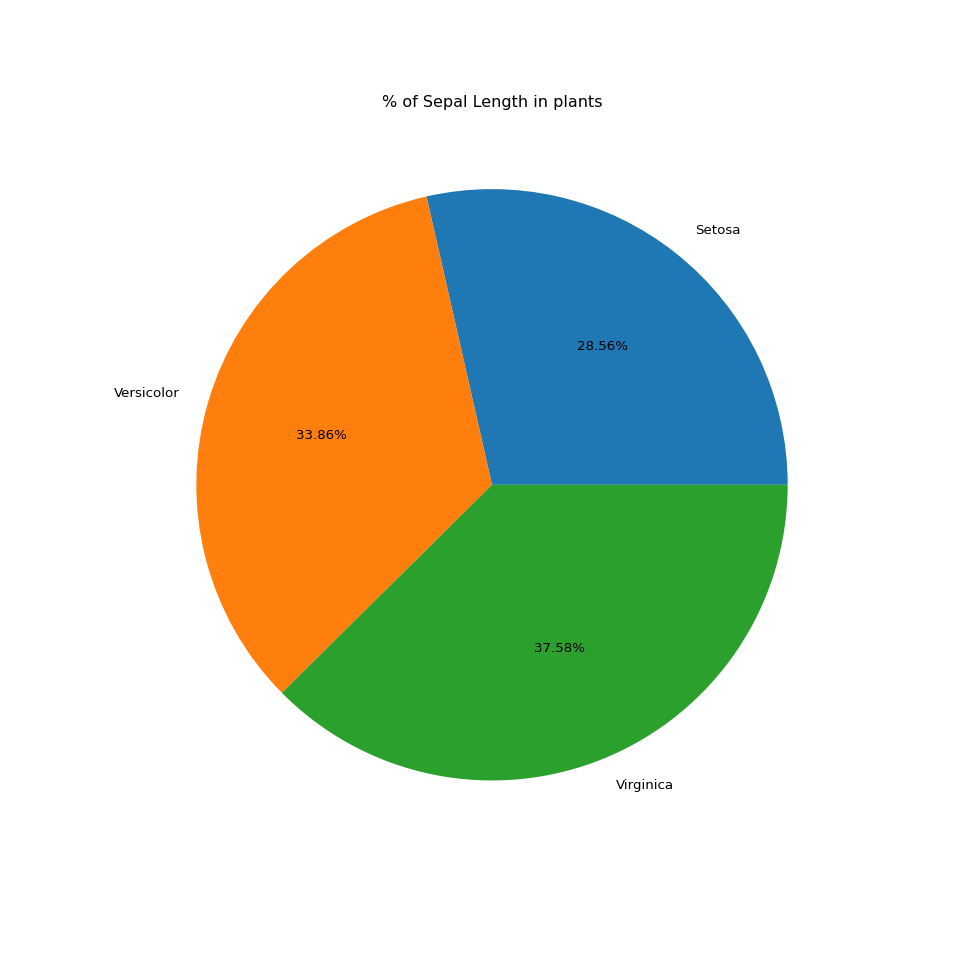
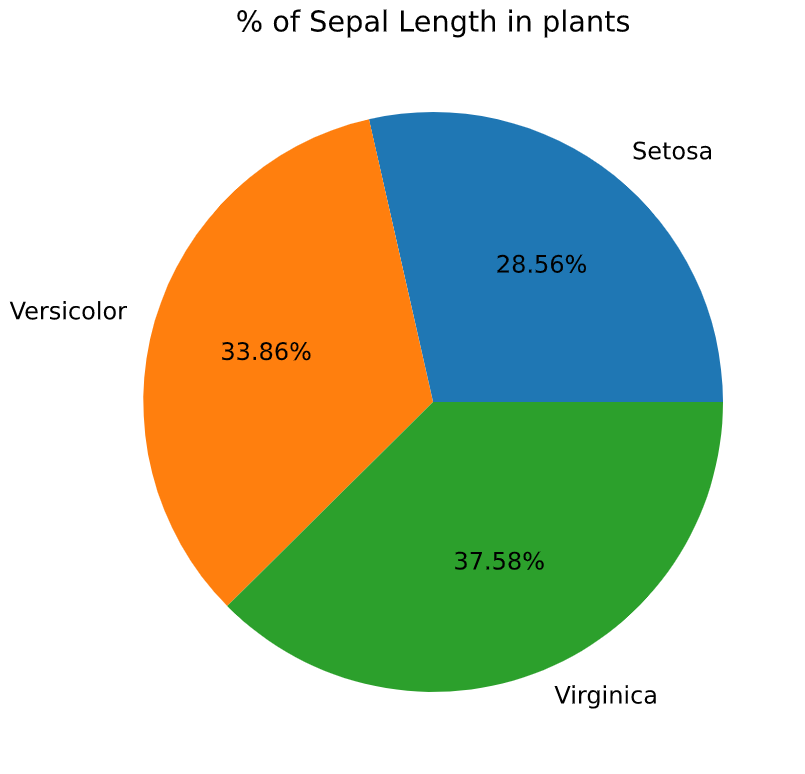
image_update

diff --git a/_posts/2020-10-05-python_pie_05102020.md b/_posts/2020-10-05-python_pie_05102020.md
@@ -1,5 +1,5 @@
 ---
-title: "Percentage pie chart with python 3 "
+title: "Percentage pie chart with python 3"
 layout: post
 categories: iris 'pie chart' python matplotlib pandas
 ---
@@ -34,7 +34,7 @@ df=df.groupby(["species"])["sepal_length"].sum().reset_index(name ='Total')
 plt.figure(figsize=(10,10))
 plt.pie(df['Total'],labels= df['species'].str.title(), autopct='%.2f%%')
 plt.title('% of Sepal Length in plants')
-plt.rcParams['font.size'] = 18
+plt.rcParams['font.size'] = 24
 plt.show()
 ```
 
